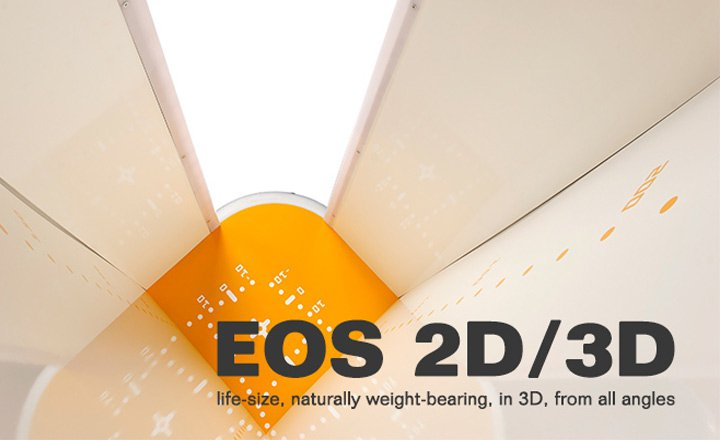
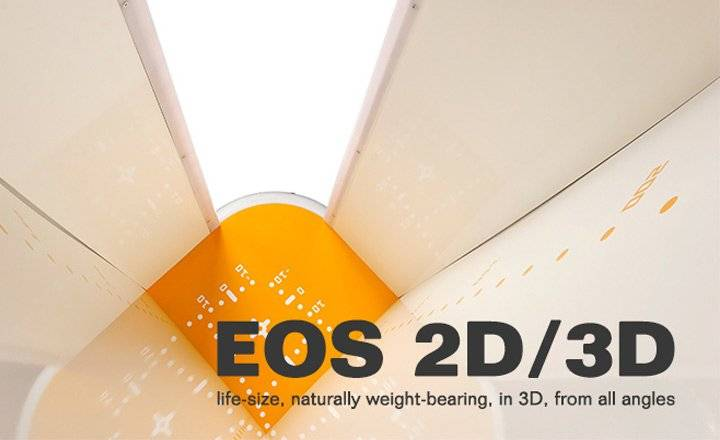
changed image from png to jpg adn improved performance

diff --git a/index.html b/index.html
@@ -8,13 +8,10 @@
     <meta name="description" content="" />
     <meta name="author" content="" />
     <title>Med&More Innovations</title>
-    <link rel="icon" type="image/x-icon" href="assets/img/favicon.ico" />
-    <!-- Font Awesome icons (free version)-->
-    <script src="https://use.fontawesome.com/releases/v5.15.1/js/all.js" crossorigin="anonymous"></script>
+    <!--<link rel="icon" type="image/x-icon" href="assets/img/favicon.ico" />-->
     <!-- Google fonts-->
     <link href="https://fonts.googleapis.com/css?family=Montserrat:400,700" rel="stylesheet" type="text/css" />
-    <link href="https://fonts.googleapis.com/css?family=Droid+Serif:400,700,400italic,700italic" rel="stylesheet"
-        type="text/css" />
+    <link href="https://fonts.googleapis.com/css?family=Droid+Serif:400,700,400italic,700italic" rel="stylesheet" type="text/css" />
     <link href="https://fonts.googleapis.com/css?family=Roboto+Slab:400,100,300,700" rel="stylesheet" type="text/css" />
     <!-- Core theme CSS (includes Bootstrap)-->
     <link href="css/styles.css" rel="stylesheet" />
@@ -152,7 +149,7 @@
             <div class="row d-flex justify-content-center">
                 <iframe width="560" height="315" src="https://www.youtube.com/embed/B1DojRTcTQ8" frameborder="0"
                     allow="accelerometer; autoplay; clipboard-write; encrypted-media; gyroscope; picture-in-picture"
-                    allowfullscreen></iframe>
+                    allowfullscreen loading="lazy"></iframe>
             </div>
         </div>
     </section>
@@ -168,7 +165,7 @@
                         <div class="card">
                             <div class="produkty-hover">
                                 <a class="produkty-link" data-toggle="modal" href="#newsModal5">
-                                    <img class="card-img-top" src="assets/img/news/05-thumbnail.png"
+                                    <img class="card-img-top" src="assets/img/news/05-thumbnail.jpg"
                                         alt="Card image cap">
                                 </a>
                             </div>
@@ -212,7 +209,7 @@
                         <div class="card">
                             <div class="produkty-hover">
                                 <a class="produkty-link" data-toggle="modal" href="#newsModal3">
-                                    <img class="card-img-top" src="assets/img/news/03-thumbnail.png"
+                                    <img class="card-img-top" src="assets/img/news/03-thumbnail.jpg"
                                         alt="Card image cap">
                                 </a>
                             </div>
@@ -236,7 +233,7 @@
                         <div class="card">
                             <div class="produkty-hover">
                                 <a class="produkty-link" data-toggle="modal" href="#newsModal2">
-                                    <img class="card-img-top" src="assets/img/news/02-thumbnail.png"
+                                    <img class="card-img-top" src="assets/img/news/02-thumbnail.jpg"
                                         alt="Card image cap">
                                 </a>
                             </div>
@@ -254,7 +251,7 @@
                         <div class="card">
                             <div class="produkty-hover">
                                 <a class="produkty-link" data-toggle="modal" href="#newsModal1">
-                                    <img class="card-img-top" src="assets/img/news/01-thumbnail.png"
+                                    <img class="card-img-top" src="assets/img/news/01-thumbnail.jpg"
                                         alt="Card image cap">
                                 </a>
                             </div>
@@ -400,7 +397,7 @@
                             <div class="modal-body">
                                 <!-- Project Details Go Here-->
                                 <h2 class="text-uppercase">eos</h2>
-                                <img class="img-fluid d-block mx-auto" src="assets/img/produkty/01-full.jpg" alt="" />
+                                <img class="img-fluid d-block mx-auto" src="assets/img/produkty/01-full.jpg" alt="" loading="lazy" />
                                 <p>EOS jest pierwszym systemem, który pozwala radiologom zobrazować cały szkielet
                                     pacjenta. Stworzony na podstawie technologii uhonorowanej Nagrodą Nobla daje
                                     całkowicie nowe możliwości w planowaniu skutecznego zabiegu chirurgii ortopedycznej:
@@ -469,8 +466,8 @@
                             <div class="modal-body">
                                 <!-- Project Details Go Here-->
                                 <h2>EOSedge</h2>
-                                <img class="img-fluid d-block mx-auto" src="assets/img/produkty/02-full.png"
-                                    alt="obrazek pokazujący przykładowe EOSedge" />
+                                <img class="img-fluid d-block mx-auto" src="assets/img/produkty/02-full.jpg"
+                                    alt="obrazek pokazujący przykładowe EOSedge" loading="lazy" />
                                 <p>Jako lider w dziedzinie niskodawkowego obrazowania 2D / 3D, obrazowanie EOS zawsze
                                     kwestionowało status quo w rozwiązaniach opartych na obrazach układu
                                     mięśniowo-szkieletowego. Dzięki zaawansowanej nowej technologii i ulepszonym
@@ -499,8 +496,8 @@
                             <div class="modal-body">
                                 <!-- Project Details Go Here-->
                                 <h2>iQMR</h2>
-                                <img class="img-fluid d-block mx-auto" src="assets/img/produkty/03-full.png"
-                                    alt="obrazek zawierający logo iQMR" />
+                                <img class="img-fluid d-block mx-auto" src="assets/img/produkty/03-full.jpg"
+                                    alt="obrazek zawierający logo iQMR" loading="lazy" />
                                 <p>iQMR® (intelligent Quick Magnetic Resonance) bazujący na technologii wspomaganej
                                     sztuczną inteligencją, umożliwia diagnostykę MRI przy użyciu szybkich protokołów na
                                     każdym modelu aparatu, poprzez znaczące podwyższenie SNR(stosunku sygnał/szum) oraz
@@ -535,7 +532,7 @@
                         <div class="col-lg-8">
                             <div class="modal-body">
                                 <h2>Badanie EOS w Polsce</h2>
-                                <img class="img-fluid d-block mx-auto" src="assets/img/news/05-full.png" alt="Kobieta poddająca się badaniu EOS" />
+                                <img class="img-fluid d-block mx-auto" src="assets/img/news/05-full.jpg" alt="Kobieta poddająca się badaniu EOS" loading="lazy" />
                                 <p class="text-muted">Platforma EOS to unikalna kombinacja technologii obrazowania 2D /
                                     3D w niskiej dawce promieniowania, oprogramowania i usług, które zwiększają wartość
                                     diagnostyki każdego etapu ścieżki leczenia układu mięśniowo-szkieletowego.</p>
@@ -544,7 +541,7 @@
                                     wzbudziła duże zainteresowanie: poniżej przedstawiamy reportaż TVP Łódź o platformie
                                     EOS.</p>
                                 <div row>
-                                    <iframe title="video" width="560" height="315" src="https://regiony.tvp.pl/sess/TVPlayer2/embed.php?ID=48203966" frameborder="0" scrolling="no" allowfullscreen="allowfullscreen" class="vue-embed"></iframe>
+                                    <iframe title="video" width="560" height="315" src="https://regiony.tvp.pl/sess/TVPlayer2/embed.php?ID=48203966" frameborder="0" scrolling="no" allowfullscreen="allowfullscreen" class="vue-embed" loading="lazy"></iframe>
                                 </div>
                                 <button class="btn btn-primary" data-dismiss="modal" type="button">
                                     <i class="fas fa-times mr-1"></i>Zamknij</button>
@@ -566,7 +563,7 @@
                         <div class="col-lg-8">
                             <div class="modal-body">
                                 <h2>Badanie EOS - Bezpieczna alternatywa dla RTG.</h2>
-                                <img class="img-fluid d-block mx-auto" src="assets/img/news/04-full.jpg" alt="" />
+                                <img class="img-fluid d-block mx-auto" src="assets/img/news/04-full.jpg" alt="" loading="lazy" />
                                 <p class="text-muted">Obecna wiedza na temat skutków ekspozycji na promieniowanie
                                     rentgenowskie skłania świat medycyny do szukania nowych rozwiązań diagnostycznych.
                                     Badanie EOS pozwala na znaczące obniżenie dawki promieniowania, przy jednoczesnym
@@ -582,7 +579,7 @@
                                     promieniowanie podczas badania kręgosłupa dziecka odpowiada tygodniowej ekspozycji
                                     na świeżym powietrzu. Poniżej przedstawiamy graficzne porównanie wyników EOS oraz
                                     standardowego RTG.</p>
-                                <img class="img-fluid" src="assets/img/news/04-full2.png" alt="">
+                                <img class="img-fluid" src="assets/img/news/04-full2.jpg" alt="">
                                 <button class="btn btn-primary" data-dismiss="modal" type="button">
                                     <i class="fas fa-times mr-1"></i>Zamknij</button>
                             </div>
@@ -603,7 +600,7 @@
                         <div class="col-lg-8">
                             <div class="modal-body">
                                 <h2>PLTR2019 Congress of Polish Medical Society of Radiology</h2>
-                                <img class="img-fluid d-block mx-auto" src="assets/img/news/03-full.png" alt="" />
+                                <img class="img-fluid d-block mx-auto" src="assets/img/news/03-full.jpg" alt="" loading="lazy" />
                                 <p class="text-muted">Gdańsk, 06-08.06.2019<br>Dear Sir or Madam,<br>Dear Colleagues and
                                     Dear Colleagues,</p>
                                 <p class="text-muted">The discovery of X-rays by Wilhelm Röntgen in 1895 changed the
@@ -652,7 +649,7 @@
                         <div class="col-lg-8">
                             <div class="modal-body">
                                 <h2>KRĘGOSŁUP DZIECIĘCY – POLSKA 2018</h2>
-                                <img class="img-fluid d-block mx-auto" src="assets/img/news/02-full.png" alt="" />
+                                <img class="img-fluid d-block mx-auto" src="assets/img/news/02-full.jpg" alt="" loading="lazy" />
                                 <p class="text-muted">Szczecin, September 25-26, 2018<br><b>Ladies and Gentlemen, Dear
                                         Colleagues, Dear Colleagues,</b></p>
                                 <p class="text-muted">On behalf of her, the Polish Society of Neurosurgeons, the
@@ -695,7 +692,7 @@
                         <div class="col-lg-8">
                             <div class="modal-body">
                                 <h2 class="text-uppercase">EUROSPINE 2018</h2>
-                                <img class="img-fluid d-block mx-auto" src="assets/img/news/01-full.png" alt="" />
+                                <img class="img-fluid d-block mx-auto" src="assets/img/news/01-full.jpg" alt="" loading="lazy" />
                                 <p class="text-muted">19-21 September 2018 Barcelona, Spain<br>
                                     Venue: CCIB – Barcelona International Convention Centre<br>
                                     Local Hosts: Luis Alvarez Galovich (Madrid)<br>
@@ -712,6 +709,8 @@
             </div>
         </div>
     </div>
+    <!-- Font Awesome icons (free version)-->
+    <script src="https://use.fontawesome.com/releases/v5.15.1/js/all.js" crossorigin="anonymous"></script>
     <!-- Bootstrap core JS-->
     <script src="https://cdnjs.cloudflare.com/ajax/libs/jquery/3.5.1/jquery.min.js"></script>
     <script src="https://cdn.jsdelivr.net/npm/bootstrap@4.5.3/dist/js/bootstrap.bundle.min.js"></script>

diff --git a/indexen.html b/indexen.html
@@ -168,7 +168,7 @@
                         <div class="card">
                             <div class="produkty-hover">
                                 <a class="produkty-link" data-toggle="modal" href="#newsModal5">
-                                    <img class="card-img-top" src="assets/img/news/05-thumbnail.png"
+                                    <img class="card-img-top" src="assets/img/news/05-thumbnail.jpg"
                                         alt="Card image cap">
                                 </a>
                             </div>
@@ -204,7 +204,7 @@
                         <div class="card">
                             <div class="produkty-hover">
                                 <a class="produkty-link" data-toggle="modal" href="#newsModal3">
-                                    <img class="card-img-top" src="assets/img/news/03-thumbnail.png"
+                                    <img class="card-img-top" src="assets/img/news/03-thumbnail.jpg"
                                         alt="Card image cap">
                                 </a>
                             </div>
@@ -228,7 +228,7 @@
                         <div class="card">
                             <div class="produkty-hover">
                                 <a class="produkty-link" data-toggle="modal" href="#newsModal2">
-                                    <img class="card-img-top" src="assets/img/news/02-thumbnail.png"
+                                    <img class="card-img-top" src="assets/img/news/02-thumbnail.jpg"
                                         alt="Card image cap">
                                 </a>
                             </div>
@@ -245,7 +245,7 @@
                         <div class="card">
                             <div class="produkty-hover">
                                 <a class="produkty-link" data-toggle="modal" href="#newsModal1">
-                                    <img class="card-img-top" src="assets/img/news/01-thumbnail.png"
+                                    <img class="card-img-top" src="assets/img/news/01-thumbnail.jpg"
                                         alt="Card image cap">
                                 </a>
                             </div>
@@ -455,7 +455,7 @@
                             <div class="modal-body">
                                 <!-- Project Details Go Here-->
                                 <h2>EOSedge</h2>
-                                <img class="img-fluid d-block mx-auto" src="assets/img/produkty/02-full.png"
+                                <img class="img-fluid d-block mx-auto" src="assets/img/produkty/02-full.jpg"
                                     alt="obrazek pokazujący przykładowe EOSedge" />
                                 <p>As a leader in 2D/3D imaging using as low as possible dose protocle, EOS imaging has
                                     always questioned status quo in musco-skeletal imaging solutions. Because of the
@@ -484,7 +484,7 @@
                             <div class="modal-body">
                                 <!-- Project Details Go Here-->
                                 <h2>iQMR</h2>
-                                <img class="img-fluid d-block mx-auto" src="assets/img/produkty/03-full.png"
+                                <img class="img-fluid d-block mx-auto" src="assets/img/produkty/03-full.jpg"
                                     alt="obrazek zawierający logo iQMR" />
                                 <p><b>iQMR</b>® (intelligent Quick Magnetic Resonance) based on an AI-assisted
                                     technology, enables the use of fast MRI protocols on MRI scanners of any vendor and
@@ -520,16 +520,17 @@
                         <div class="col-lg-8">
                             <div class="modal-body">
                                 <h2>EOS Exams in Poland</h2>
-                                <img class="img-fluid d-block mx-auto" src="assets/img/news/05-full.png" alt="" />
+                                <img class="img-fluid d-block mx-auto" src="assets/img/news/05-full.jpg" alt="" />
                                 <p class="text-muted">EOS platform is a unique combination of 2D/3D imaging, software
                                     and services, which makes diagnostics of every musculo-sceletal system way of
                                     treatment more valuable.</p>
                                 <p class="text-muted">One of the first medical centers in Poland owning EOS platform is
                                     Wizja Med centre in Łódź. Implementation of this new diagnostics solution echoed in
                                     media: below we present you with coverage of the subject made by TVP Łódź.</p>
-                                    <div row>
+                                    <div class="row d_flex justify-content-center">
                                         <iframe title="video" width="560" height="315" src="https://regiony.tvp.pl/sess/TVPlayer2/embed.php?ID=48203966" frameborder="0" scrolling="no" allowfullscreen="allowfullscreen" class="vue-embed"></iframe>
                                     </div>
+                                    <p><br/></p>
                                 <button class="btn btn-primary" data-dismiss="modal" type="button">
                                     <i class="fas fa-times mr-1"></i>Close</button>
                             </div>
@@ -584,7 +585,7 @@
                         <div class="col-lg-8">
                             <div class="modal-body">
                                 <h2>PLTR2019 Congress of Polish Medical Society of Radiology</h2>
-                                <img class="img-fluid d-block mx-auto" src="assets/img/news/03-full.png" alt="" />
+                                <img class="img-fluid d-block mx-auto" src="assets/img/news/03-full.jpg" alt="" />
                                 <p class="text-muted">Gdańsk, 06-08.06.2019<br>Dear Sir or Madam,<br>Dear Colleagues and
                                     Dear Colleagues,</p>
                                 <p class="text-muted">The discovery of X-rays by Wilhelm Röntgen in 1895 changed the
@@ -633,7 +634,7 @@
                         <div class="col-lg-8">
                             <div class="modal-body">
                                 <h2>KRĘGOSŁUP DZIECIĘCY – POLSKA 2018</h2>
-                                <img class="img-fluid d-block mx-auto" src="assets/img/news/02-full.png" alt="" />
+                                <img class="img-fluid d-block mx-auto" src="assets/img/news/02-full.jpg" alt="" />
                                 <p class="text-muted">Szczecin, September 25-26, 2018<br><b>Ladies and Gentlemen, Dear
                                         Colleagues, Dear Colleagues,</b></p>
                                 <p class="text-muted">On behalf of her, the Polish Society of Neurosurgeons, the
@@ -676,7 +677,7 @@
                         <div class="col-lg-8">
                             <div class="modal-body">
                                 <h2 class="text-uppercase">EUROSPINE 2018</h2>
-                                <img class="img-fluid d-block mx-auto" src="assets/img/news/01-full.png" alt="" />
+                                <img class="img-fluid d-block mx-auto" src="assets/img/news/01-full.jpg" alt="" />
                                 <p class="text-muted">19-21 September 2018 Barcelona, Spain<br>
                                     Venue: CCIB – Barcelona International Convention Centre<br>
                                     Local Hosts: Luis Alvarez Galovich (Madrid)<br>
